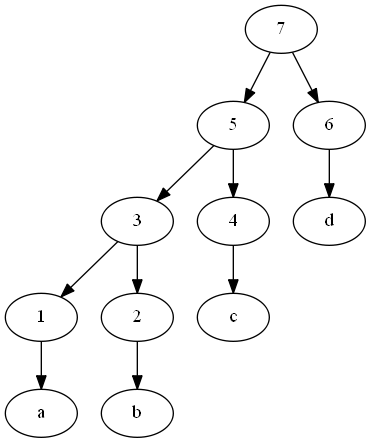
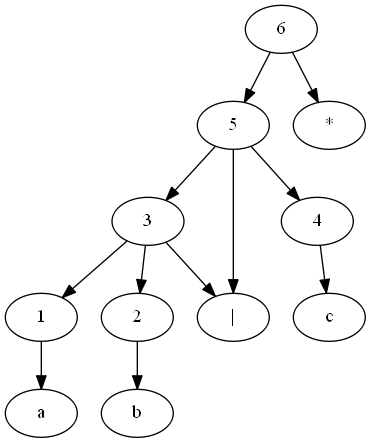
Correcion de la construccion del AFN

diff --git a/package/Automata.py b/package/Automata.py
@@ -1,16 +1,27 @@
 import sys
 import graphviz as graph
-import package.Parse_Tree
+import Parse_Tree
+
 
 class State(object):
     def __init__(self, aceptation, name):
         self.aceptation = aceptation
         self.name = name
 
-def make_link_automata(G, node1, node2, token):
+
+def make_link_AFNe(G, node1, node2, token):
     if node1 not in G:
         G[node1] = {}
     (G[node1])[node2] = token
+    return G
+
+def make_link_AFN(G, node1, node2, token):
+    if node1 not in G:
+        G[node1] = {}
+    if node2 in G[node1]:
+        (G[node1])[node2].append(token)
+    else:
+        (G[node1])[node2] = [token]
     return G
 
 def make_link_tree(G, node1, node2, token):
@@ -18,6 +29,7 @@ def make_link_tree(G, node1, node2, token):
         G[node1] = {}
     (G[node1])[node2] = token
     return G
+
 
 def make_state(nodesAutomata, aceptation, name):
     state = State(aceptation, name)
@@ -28,7 +40,8 @@ def make_state(nodesAutomata, aceptation, name):
 def drawAutomata(G, startState, nodesAutomata, nombre_archivo):
     g2 = graph.Digraph(format='png')
     g2.attr("graph", _attributes={"rankdir": "LR"})
-    g2.node("start", _attributes={"shape": "point", "color": "white", "fontcolor": "white"})
+    g2.node("start", _attributes={"shape": "point",
+                                  "color": "white", "fontcolor": "white"})
     g2.edge("start", "q" + str(startState))
 
     for node1 in G:
@@ -41,26 +54,25 @@ def drawAutomata(G, startState, nodesAutomata, nombre_archivo):
 
     for node1 in G:
         if nodesAutomata[node1].aceptation == True:
-            g2.node(node1, _attributes={"shape": "doublecircle", "color": "black", "fontcolor": "black"})
+            g2.node(node1, _attributes={
+                    "shape": "doublecircle", "color": "black", "fontcolor": "black"})
         for node2 in G[node1]:
             if nodesAutomata[node2].aceptation == True:
-                g2.node(node2, _attributes={"shape": "doublecircle", "color": "black", "fontcolor": "black"})
+                g2.node(node2, _attributes={
+                        "shape": "doublecircle", "color": "black", "fontcolor": "black"})
 
     filename = g2.render(filename='../graphs/automatas/' + nombre_archivo)
 
+
 def delete_lambda(AFN, AFN_e, parent, u, neighbor):
-    if AFN_e[u][neighbor] == "lambda":
-        father = parent[u]
-        son = u
-        if father != None:
-            while AFN_e[father][son] == "lambda":
-                if parent[father] != None:
-                    son = father
-                    father = parent[father]
-                else:
-                    break;
-            AFN = make_link_automata(AFN, father, neighbor, AFN_e[father][son])
+
+    gfather = parent[u]
+    father = u
+    sons = AFN_e[u]
+
+    print(gfather, father, sons)
     return AFN
+
 
 def delete_limboState(AFN, nodesAutomata):
     i = 0
@@ -78,34 +90,40 @@ def delete_limboState(AFN, nodesAutomata):
         i += 1
     return AFN
 
-def make_AFN(AFN_e, startState, nodesAutomata):
-    AFN = {}
+
+def DFS_AFN(AFN_e, startNode, nodesAutomata, symbol, AFN):
+    word = ""
     color = {}
     parent = {}
-    startNode = "q" + str(startState)
     for v in AFN_e:
         color[v] = 'white'
     color[startNode] = 'gray'
     parent[startNode] = None
     nodelist = [startNode]
-    repeat = False
     while nodelist != []:
         u = nodelist.pop()
         for neighbor in AFN_e[u]:
-            if neighbor in color:
-                if color[neighbor] == 'white':
-                    color[neighbor] = 'gray'
-                    parent[neighbor] = u
-                    nodelist.append(neighbor)
-                    AFN = delete_lambda(AFN, AFN_e, parent, u, neighbor)
-                elif AFN_e[u][neighbor] == "lambda":
-                    AFN = delete_lambda(AFN, AFN_e, parent, u, neighbor)
-            else:
-                AFN = make_link_automata(AFN, u, neighbor, AFN_e[u][neighbor])
+            if color[neighbor] == 'white':
+                color[neighbor] = 'gray'
+                parent[neighbor] = u
+                nodelist.append(neighbor)
+            if AFN_e[u][neighbor] != "lambda":
+                word = word + AFN_e[u][neighbor]
+            if nodesAutomata[neighbor].aceptation:
+                if word == symbol:
+                    make_link_AFN(AFN,startNode,neighbor,symbol)
+            if color[neighbor] == "black":
+                word = ""
         color[u] = 'black'
+    return AFN
 
-    AFN = delete_limboState(AFN, nodesAutomata)
-    drawAutomata(AFN, startState, nodesAutomata, "AFNfinal")
+def make_AFN(AFN_e, startState, nodesAutomata, alphabet):
+    AFN = {}
+    for node in nodesAutomata.keys():
+        for symbol in alphabet:
+            AFN = DFS_AFN(AFN_e, node, nodesAutomata, symbol, AFN)
+    print(AFN)
+    #drawAutomata(AFN, startState, nodesAutomata, "AFNfinal")
     return AFN
 
 
@@ -131,8 +149,8 @@ def transition_or(AFN_e, Tree, node, nodesAutomata, state, startState):
     startNode = "q" + str(state)
     startState = state
     nodesAutomata = make_state(nodesAutomata, False, startNode)
-    AFN_e = make_link_automata(AFN_e, startNode, startNode1, "lambda")
-    AFN_e = make_link_automata(AFN_e, startNode, startNode2, "lambda")
+    AFN_e = make_link_AFNe(AFN_e, startNode, startNode1, "lambda")
+    AFN_e = make_link_AFNe(AFN_e, startNode, startNode2, "lambda")
 
     del Tree[node]
     endNodes = endNodes1 + endNodes2
@@ -164,7 +182,7 @@ def transition_concatenation(AFN_e, Tree, node, nodesAutomata, state, startState
 
     for endNode in endNodes1:
         nodesAutomata[endNode].aceptation = False
-        AFN_e = make_link_automata(AFN_e, endNode, startNode2, "lambda")
+        AFN_e = make_link_AFNe(AFN_e, endNode, startNode2, "lambda")
 
     startNode = startNode1
     del Tree[node]
@@ -186,7 +204,7 @@ def transition_kleen(AFN_e, Tree, node, nodesAutomata, state, startState):
     nodesAutomata[startNode] = State(True, startNode)
 
     for endNode in endNodes:
-        AFN_e = make_link_automata(AFN_e, endNode, startNode, "lambda")
+        AFN_e = make_link_AFNe(AFN_e, endNode, startNode, "lambda")
 
     del Tree[node]
     Tree = make_link_tree(Tree, node, "start", startNode)
@@ -203,7 +221,7 @@ def transition_super(AFN_e, Tree, node, nodesAutomata, state, startState):
     endNodes = subAutomata['end']
 
     for endNode in endNodes:
-        AFN_e = make_link_automata(AFN_e, endNode, startNode, "lambda")
+        AFN_e = make_link_AFNe(AFN_e, endNode, startNode, "lambda")
 
     del Tree[node]
     Tree = make_link_tree(Tree, node, "start", startNode)
@@ -211,7 +229,6 @@ def transition_super(AFN_e, Tree, node, nodesAutomata, state, startState):
 
     return AFN_e, Tree, nodesAutomata, state, startState
     return AFN_e, Tree, nodesAutomata, state, startState
-
 
 
 def transition(AFN_e, Tree, node, nodesAutomata, state):
@@ -228,7 +245,7 @@ def transition(AFN_e, Tree, node, nodesAutomata, state):
     Tree = make_link_tree(Tree, node, "start", startNode)
     Tree = make_link_tree(Tree, node, "end", endNodes)
 
-    AFN_e = make_link_automata(AFN_e, startState, endState, token)
+    AFN_e = make_link_AFNe(AFN_e, startState, endState, token)
 
     state += 2
     return AFN_e, Tree, nodesAutomata, state
@@ -255,24 +272,27 @@ def select_transition(AFN_e, Tree, node, nodesAutomata, state, startState):
 
     return AFN_e, Tree, nodesAutomata, state, startState
 
+
 def makeAutomata():
-    Tree = package.Parse_Tree.parseTree()
+    Tree, alphabet = Parse_Tree.parseTree()
     AFN_e = {}
     nodesAutomata = {}
 
     state = 0
     startState = 0
 
-    i = 1;
+    i = 1
     while i < len(Tree) + 1:
         subtree = Tree[i]
         if len(subtree) == 1:
-            AFN_e, Tree, nodesAutomata, state = transition(AFN_e, Tree, i, nodesAutomata, state)
+            AFN_e, Tree, nodesAutomata, state = transition(
+                AFN_e, Tree, i, nodesAutomata, state)
         else:
             AFN_e, Tree, nodesAutomata, state, startState = select_transition(AFN_e, Tree, i, nodesAutomata, state,
                                                                               startState)
         i += 1
     drawAutomata(AFN_e, startState, nodesAutomata, "automata_final")
-    AFN = make_AFN(AFN_e, startState, nodesAutomata)
+    AFN = make_AFN(AFN_e, startState, nodesAutomata, alphabet)
+
 
 makeAutomata()

diff --git a/package/Parse_Tree.py b/package/Parse_Tree.py
@@ -2,11 +2,13 @@ import sys
 import graphviz as graph
 import os
 
+
 def make_link(G, node1, node2):
     if node1 not in G:
         G[node1] = {}
     (G[node1])[node2] = 1
     return G
+
 
 def drawTree(G, etiqueta):
     g2 = graph.Digraph(format='png')
@@ -16,6 +18,7 @@ def drawTree(G, etiqueta):
             g2.node(str(node2))
             g2.edge(str(node1), str(node2))
     filename = g2.render(filename='../graphs/parse_tree/g' + etiqueta)
+
 
 def op_unary(tree, node, node_aux, character):
     if len(tree[node_aux]) > 1:
@@ -41,6 +44,7 @@ def op_unary(tree, node, node_aux, character):
 
     return tree, node
 
+
 def op_OR(tree, node, position_or, pair, character):
     if (len(position_or) == 0):
         position_or.append(node - 1)
@@ -60,6 +64,7 @@ def op_OR(tree, node, position_or, pair, character):
 
         node += 1
     return tree, node, position_or, pair
+
 
 def op_concatenation(tree, node, node1, node2, pair, character):
     flag = False
@@ -82,10 +87,11 @@ def op_concatenation(tree, node, node1, node2, pair, character):
 
     return tree, node, pair
 
+
 def makeSubTree(tree, sub_ER, node):
     unary_operations = {'*': op_unary, '+': op_unary}
     binary_operations = {'|': 1, ')': 1}
-    pair = 0;
+    pair = 0
     position_or = []
 
     sub_ER.pop(0)
@@ -101,30 +107,37 @@ def makeSubTree(tree, sub_ER, node):
             if type(prev_character) is int:
                 node1 = character - 1
                 node2 = prev_character - 1
-                tree, node, pair = op_concatenation(tree, node, node1, node2, pair, character)
+                tree, node, pair = op_concatenation(
+                    tree, node, node1, node2, pair, character)
             else:
                 node1 = node - 1
                 node2 = character - 1
-                tree, node, pair = op_concatenation(tree, node, node1, node2, pair, character)
+                tree, node, pair = op_concatenation(
+                    tree, node, node1, node2, pair, character)
 
         elif type(character) is str:
             if character in unary_operations:
                 tree, node = op_unary(tree, node, 0, character)
             elif character in binary_operations:
-                tree, node, position_or, pair = op_OR(tree, node, position_or, pair, character)
+                tree, node, position_or, pair = op_OR(
+                    tree, node, position_or, pair, character)
             else:
                 node1 = node - 1
                 node2 = node - 2
-                tree, node, pair = op_concatenation(tree, node, node1, node2, pair, character)
+                tree, node, pair = op_concatenation(
+                    tree, node, node1, node2, pair, character)
         i += 1
     return tree, node
 
 
 def makeTree(ER):
-    tree = {}
-    node = 1
     numbers = {"1": "one", "2": "two", "3": "three", "4": "four", "5": "five", "6": "six", "7": "seven", "8": "eight",
                "9": "nine", "0": "zero"}
+    operations = {"*": 0, "|": 0, "+": 0, "(": 0, ")": 0}
+
+    tree = {}
+    alphabet = {}
+    node = 1
     parenthesis_position = []
 
     i = 0
@@ -133,6 +146,9 @@ def makeTree(ER):
 
         if character.isdigit():
             ER[i] = numbers[character]
+
+        if ER[i] not in alphabet and character not in operations:
+            alphabet[ER[i]] = 0
 
         if (character == "("):
             parenthesis_position.append(i)
@@ -145,7 +161,8 @@ def makeTree(ER):
             ER.insert(parenthesis, node)
             i = parenthesis
         i += 1
-    return tree
+    return tree, alphabet
+
 
 def parseTree():
     filePath = os.path.realpath('../test/simpleTest.txt')
@@ -153,6 +170,6 @@ def parseTree():
     for ER in fileER:
         ER = "(" + ER + ")"
         ER = list(map(str, ER))
-        final_tree = makeTree(ER)
+        final_tree, alphabet = makeTree(ER)
         drawTree(final_tree, "final")
-        return final_tree
+        return final_tree, alphabet
